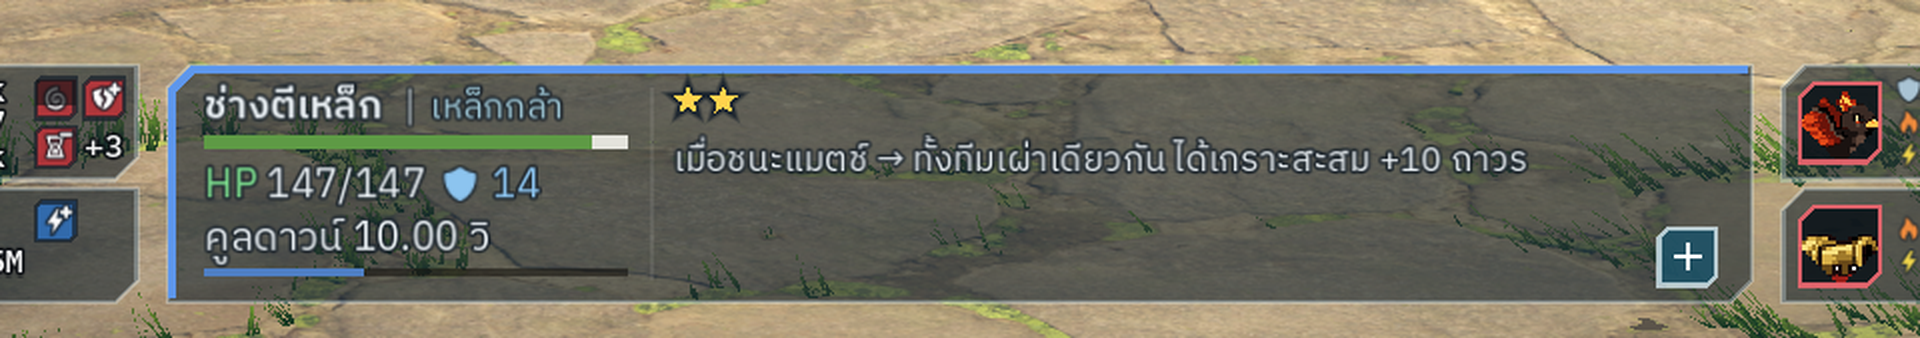
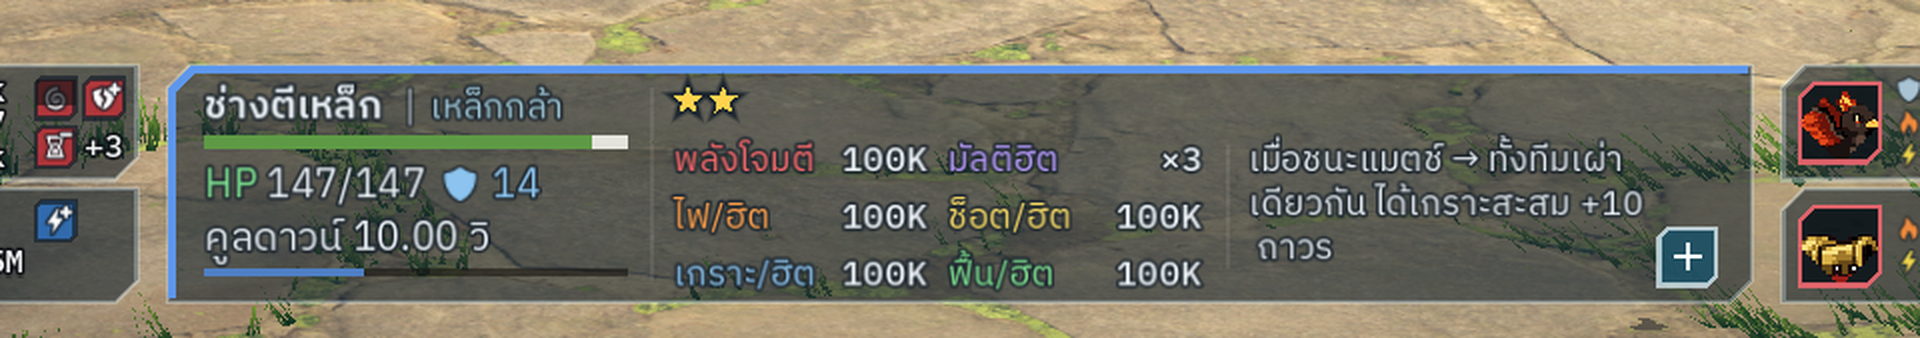
set 299 r35z2: panel page 1 = values + skill, page 2 = merged status (sample)

diff --git a/claude/preview-set268/r35d-m/s299r35z-patch.py b/claude/preview-set268/r35d-m/s299r35z-patch.py
@@ -1,5 +1,5 @@
 # set 299 r35z: detail panel = left column fixed (name | tribe, HP + shield icon, cooldown) · middle + right merged into ONE box with stars on top,
-# page 1 = the unit's skill (game text), "+" at its bottom-right corner flips to page 2 = 6 values + burn / shock numbers + buff / debuff chips ("−" flips back)
+# page 1 = 6 values (middle) + skill (right); "+" bottom-right flips to page 2 = middle + right merged = burn / shock + buff / debuff chips ("−" flips back)
 # env S299PAGE=1 = start on page 2 (stills)
 import sys
 p = sys.argv[1] if len(sys.argv) > 1 else r"D:\GitHub\automon-scratch\g286\scripts\ui\s286_team.gd"
@@ -87,7 +87,17 @@ func _area299(R: Rect2, v: Dictionary, L2: float, ink: Color, mute: Color) -> vo
 	_pn_layer.draw_rect(Rect2(bc.x - 3.0, bc.y - 0.5, 6.0, 1.0), Color(1, 1, 1, 1))
 	if _pg299 == 0: _pn_layer.draw_rect(Rect2(bc.x - 0.5, bc.y - 3.0, 1.0, 6.0), Color(1, 1, 1, 1))   # "+" on the skill page, "−" on the stats page
 	var top := y + 14.0
-	if _pg299 == 0:   # page 1: the unit's skill(s), game text for its level
+	var cw2 := 58.0
+	var L3 := L2 + cw2 * 2.0 + 4.0 + 10.0
+	if _pg299 == 0:   # page 1: middle = the 6 values (3 rows x 2) · right = the unit's skill (game text for its level)
+		var sl := _slots(v)
+		for i in sl.size():
+			var gx := L2 + (0.0 if i % 2 == 0 else cw2 + 4.0)
+			var gy := top + float(i / 2) * 13.0
+			var kd := String(sl[i][0])
+			_dtxt(Vector2(gx, gy + 10.0), String(PN299_W.get(kd, kd)), 8, TAG_COL3.get(kd, INK))
+			_dnum(Vector2(0, gy + 10.0), String(sl[i][1]) if sl[i][2] else "-", 8, ink, gx + cw2)
+		_pn_layer.draw_rect(Rect2(L3 - 5.0, y + 18.0, 1.0, R.size.y - 26.0), Color(1, 1, 1, 0.08))
 		var groups: Variant = TH.labels().get("skills", {}).get(str(v.get("id")))
 		var lv := maxi(1, int(v.get("level", 1)))
 		var lines := []
@@ -96,42 +106,32 @@ func _area299(R: Rect2, v: Dictionary, L2: float, ink: Color, mute: Color) -> vo
 				var on: bool = g.get("lv") == null or (g["lv"] is Array and g["lv"].has(float(lv)))
 				if not on: continue
 				var txts: Array = g["text"]
-				for ln in _wrap299(String(txts[clampi(lv - 1, 0, txts.size() - 1)]), 8, RT - L2 - 16.0): lines.append(ln)
+				for ln in _wrap299(String(txts[clampi(lv - 1, 0, txts.size() - 1)]), 8, RT - L3 - 16.0): lines.append(ln)
 		if lines.is_empty():
-			_dtxt(Vector2(L2, top + 10.0), "ไม่มีสกิล", 9, mute)
+			_dtxt(Vector2(L3, top + 10.0), "ไม่มีสกิล", 9, mute)
 		for i in mini(lines.size(), 4):
 			var t: String = lines[i]
-			if i == 3 and lines.size() > 4: t = _fit_txt(t + "…", 8, RT - L2 - 16.0)
-			_dtxt(Vector2(L2, top + 10.0 + float(i) * 10.0), t, 8, ink)
+			if i == 3 and lines.size() > 4: t = _fit_txt(t + "…", 8, RT - L3 - 16.0)
+			_dtxt(Vector2(L3, top + 10.0 + float(i) * 10.0), t, 8, ink)
 		return
-	# page 2: 6 values (3 rows x 2) + status (burn / shock numbers, then buff / debuff chips)
-	var cw2 := 58.0
-	var sl := _slots(v)
-	for i in sl.size():
-		var gx := L2 + (0.0 if i % 2 == 0 else cw2 + 4.0)
-		var gy := top + float(i / 2) * 13.0
-		var kd := String(sl[i][0])
-		_dtxt(Vector2(gx, gy + 10.0), String(PN299_W.get(kd, kd)), 8, TAG_COL3.get(kd, INK))
-		_dnum(Vector2(0, gy + 10.0), String(sl[i][1]) if sl[i][2] else "-", 8, ink, gx + cw2)
-	var L3 := L2 + cw2 * 2.0 + 4.0 + 10.0
-	_pn_layer.draw_rect(Rect2(L3 - 5.0, y + 18.0, 1.0, R.size.y - 26.0), Color(1, 1, 1, 0.08))
-	var cw3 := (RT - L3 - 6.0) * 0.5
+	# page 2: middle + right merged = status (burn / shock numbers, then buff / debuff chips), 3 rows x 3 columns, column-major
+	var cw3 := (RT - L2 - 12.0) / 3.0
 	var items := []
 	for q in _row1(v):
 		if String(q[0]) == "armor": continue   # owner: only burn / shock come back, armour stays on the HP line
 		items.append(["n", String(q[0]), String(L4_NUM.get(q[0], q[0])), String(q[1]), true, ""])
 	for e in _effects(v): items.append(["e", String(e[1]), _short4(e), "", bool(e[2]), String(e[5])])
-	if items.is_empty(): _dtxt(Vector2(L3, top + 10.0), "ไม่มีสถานะ", 8, mute)
-	var cap := 5   # slot 6 = the flip box
+	if items.is_empty(): _dtxt(Vector2(L2, top + 10.0), "ไม่มีสถานะ", 8, mute)
+	var cap := 8   # slot 9 = the flip box
 	var shown := mini(items.size(), cap if items.size() <= cap else cap - 1)
 	for i in shown:
-		var gx := L3 + (0.0 if i / 3 == 0 else cw3 + 6.0)   # column-major
+		var gx := L2 + float(i / 3) * (cw3 + 6.0)
 		var gy := top + float(i % 3) * 13.0
 		var it: Array = items[i]
 		if it[0] == "n":   # burn / shock numbers are back: word in its kind hue + number
 			var kc: Color = TAG_COL3.get(_l4_col(String(it[1])), INK)
 			_dtxt(Vector2(gx, gy + 10.0), String(it[2]), 8, kc)
-			_dnum(Vector2(0, gy + 10.0), String(it[3]), 8, ink, gx + cw3)
+			_dnum(Vector2(0, gy + 10.0), String(it[3]), 8, ink, gx + cw3 - 10.0)
 			continue
 		var cr := Rect2(gx, gy, 11.0, 11.0)   # same chip as on the cards: cut 15 %, baked icon, small + / −
 		var cpp := _cutpts299(cr, 11.0 * 0.15)
@@ -146,7 +146,7 @@ func _area299(R: Rect2, v: Dictionary, L2: float, ink: Color, mute: Color) -> vo
 			if cmk != null: _pn_layer.draw_texture_rect(cmk, cr, false, Color(1, 1, 1, 1))
 		_dtxt(Vector2(gx + 14.0, gy + 10.0), _fit_txt(String(it[2]), 8, cw3 - 14.0), 8, ink)
 	if items.size() > cap:
-		_dtxt(Vector2(L3 + cw3 + 6.0, top + 10.0 + 13.0), "+%d อย่าง" % (items.size() - shown), 8, mute)
+		_dtxt(Vector2(L2 + 2.0 * (cw3 + 6.0), top + 10.0 + 13.0), "+%d อย่าง" % (items.size() - shown), 8, mute)
 
 '''
 rep('\nfunc _stone297(', new_fn + '\nfunc _stone297(')

diff --git a/claude/preview-set268/notes.md b/claude/preview-set268/notes.md
@@ -284,3 +284,4 @@ Rebuild adds → s299r35w10-patch.py (after s299r35w9).
 109. (set 299, round 35x, pending owner OK) Owner on the layout-4 detail panel (note 65 place): 'remove what is not needed' → level text out, yellow stars after the name (1 per level) · 'HP' letters green · 'ตีทุก … · อีก …' out → 'คูลดาวน์ X.XX วิ' (game wording, 2 decimals; cooldown bar under it kept) · value names coloured by kind (TAG_COL3, no swatch) with the game's own words พลังโจมตี / มัลติฮิต / ไฟ/ฮิต / ช็อต/ฮิต / เกราะ/ฮิต / ฟื้น/ฮิต (owner: do not invent words) · missing value keeps its colour, number '-'. Column 2 widened 50 → 62. Env S299PN=0 = old. Status column (3rd) untouched. Shots S299x-panel-3.png (own, all values) · S299x-panel-f2.png (foe, missing values). Rebuild adds → s299r35x-patch.py (after s299r35w17). Owner: keep the cooldown bar.
 110. (set 299, round 35y, pending owner OK) Owner on the detail panel's status column (crop: "เกราะ 1200 / ติดฟ้า 8 …" with plain squares): no armour / burn / shock numbers there — only buffs / debuffs · symbol = the same chip as on the cards (cut 15 %, baked icon, small + / −; blue buff / red debuff) · everywhere a multi-hit value shows, "×" in front (slot value → "×3"; one source `_haves`, so panel, console and cards all follow). Seen: words still cut with "…" ("รับเกราะ …", "ลดคูล +…", "โดนไฟ +…") because column 3 is narrow — next: shorter words or wider panel; the mock heart chip (healToAtk) has no icon (retired, mock only). Rebuild adds → s299r35y-patch.py (after s299r35x). Shot S299y-panel.png (seed 22 PICK=3 FK=1 MK=s).
 111. (set 299, round 35z, pending owner OK) Owner on the detail panel after note 110: status column → the unit's SKILL · stars moved from the left column to the top of the box · "+" at the box's bottom-right corner flips the page · left column fixed · middle + right merged · burn / shock numbers back · name shows "name | tribe" instead of stars (ช่างตีเหล็ก | เหล็กกล้า) · HP line: shield symbol instead of the word เกราะ. Built: left column W1 96 (name bold + "|" + tribe light blue, HP green + shield icon + armour number, คูลดาวน์ + bar) · one box right of it: stars on top, page 1 (default) = skill text from labels.skills for the unit's level (wrapped, max 4 lines, none = "ไม่มีสกิล"), page 2 = the 6 values 3×2 + burn / shock (word in kind hue + number; armour NOT repeated) + buff / debuff chips (note 110 chip), max 5 then "+N อย่าง" · flip box 13 px cut-corner, "+" on page 1, "−" on page 2 · tap = flip (page kept when another unit is picked). Env S299PAGE=1 = start on page 2 (stills). Seen: chip words still cut with "…" in the right half of page 2 (area ≈ 250 base wide); mock burn missing in the stills. Rebuild adds → s299r35z-patch.py (after s299r35y). Shots S299z-p0.png (skill page) · S299z-p1.png (stats page), seed 22 PICK=3 FK=1 MK=s. (Shots redone with S297E=4 = the card plate; the first shots used a wrong E value so the plate was missing — not a code change.)
+112. (set 299, round 35z2, pending owner OK) Owner redo of note 111: page 1 = middle box (the 6 values 3×2: พลังโจมตี / มัลติฮิต …) + right box = the unit's skill ("กล่องซ้าย" read as the right box — the left name column stays fixed) · page 2 = middle + right merged = status: burn / shock numbers + buff / debuff chips, 3 rows × 3 columns column-major, max 8 then "+N อย่าง" (slot 9 = flip box) · stars on top of the box on both pages · flip box "+" (page 1) / "−" (page 2). Same patch file s299r35z-patch.py (rewritten, after s299r35y; shots need S297E=4 or the plate is missing). Shots S299z-p0.png (values + skill) · S299z-p1.png (status). Seen: skill text wraps in ~3 lines at ~28 chars; long chip words ("รับเกราะ −30%…") still cut on page 2.
